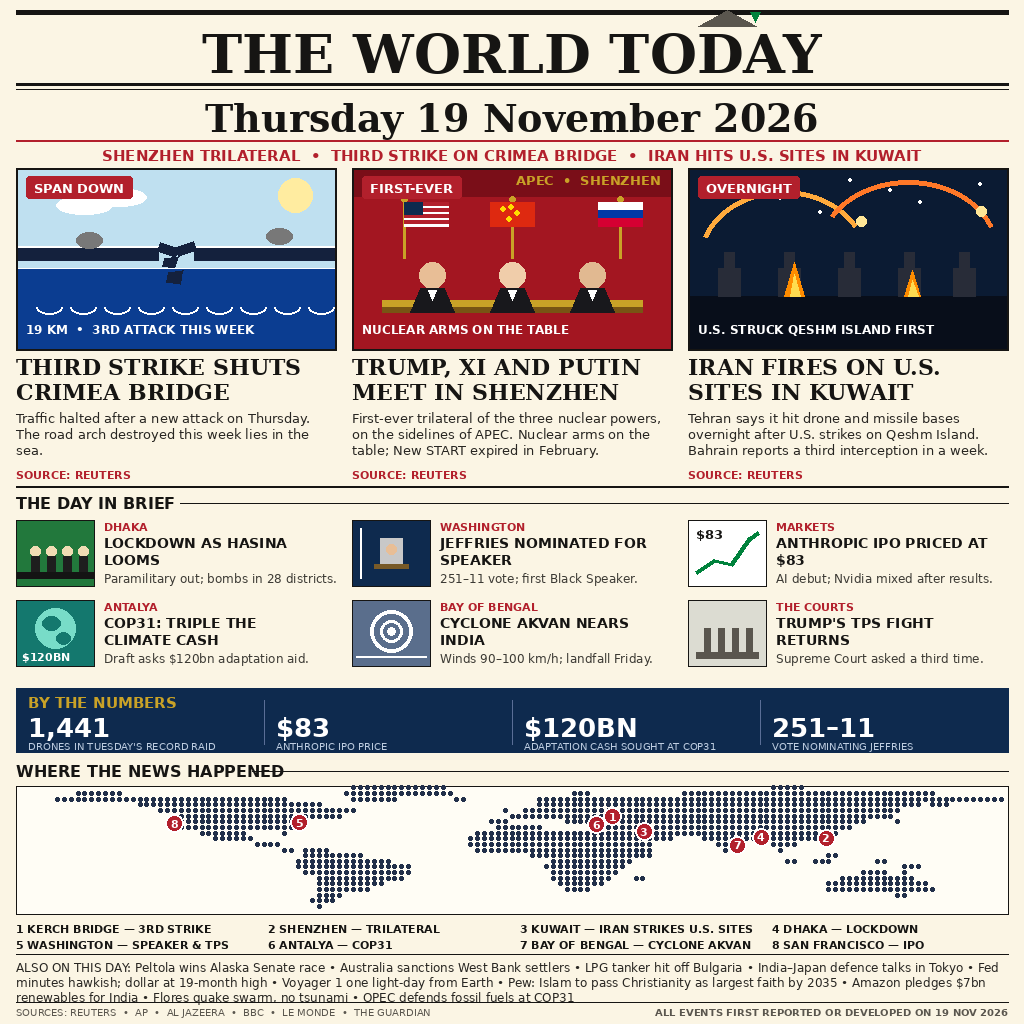
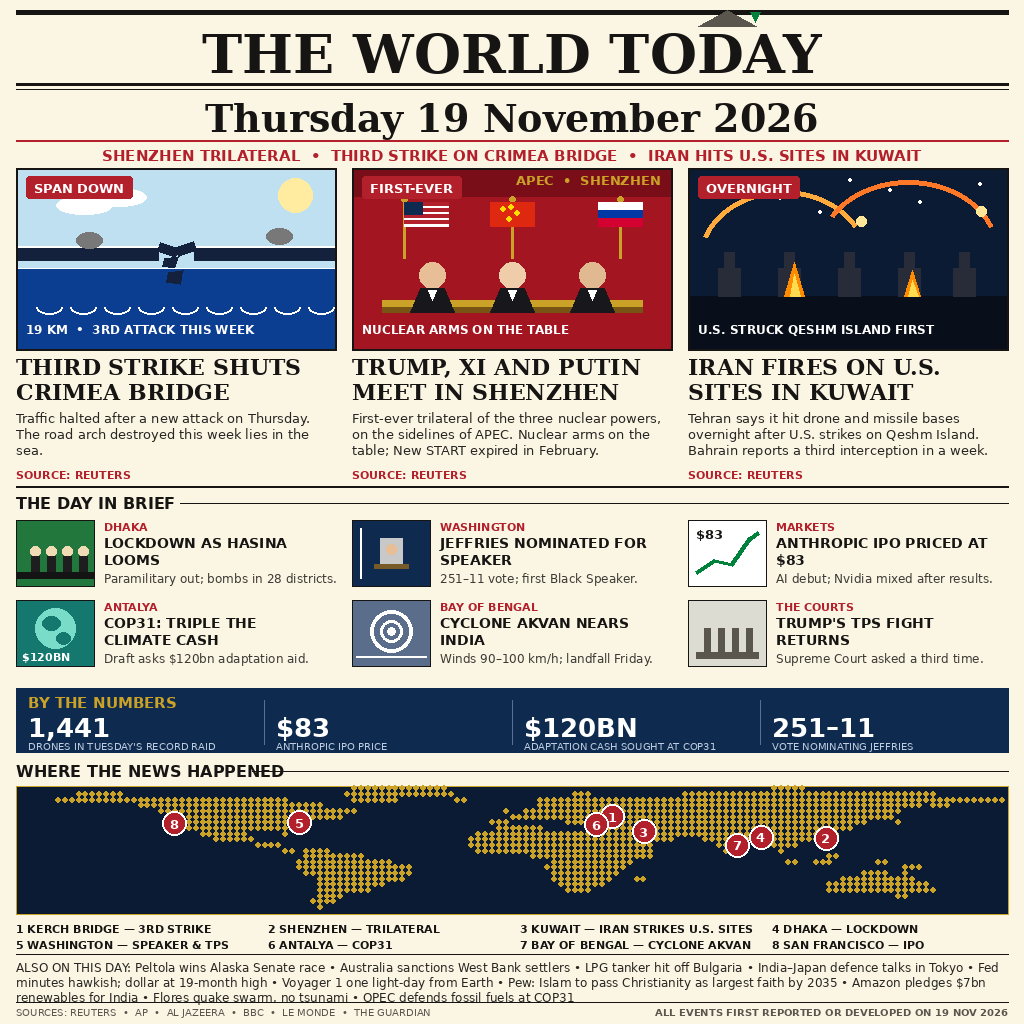
news-image-20261119 v2: redraw map panel dark (navy + gold dots, larger pins)

Changed region(s): [[0.0, 0.75, 1.0, 0.9062]]

diff --git a/main.ts b/main.ts
@@ -4,10 +4,17 @@
 // session, every pixel and every letter placed by code — no AI text, no
 // network) and ships beside this file as entry.png. This program's only job
 // is to place that exact image at /output/entry.png, deterministically.
+// v2 image: 132,536 bytes, sha256
+// 006421a6e148c7ae4cec1dce656b28dc7d62fa87ad9f62a60e94d9df20cfd7c3.
 //
 // Outside the grader's container, MAKEFUN_OUTPUT_DIR stands in for /output:
 //   mkdir -p out && MAKEFUN_OUTPUT_DIR=out node main.ts
 
+// v2 (19 Nov 2026, revision session): the map panel was redrawn dark —
+// navy fill, gold halftone dots, larger pins — after v1 graded 0.982910
+// (rank 100/2.799); every top-10 entry carries a big high-contrast map
+// while v1's pale thin map band barely read at thumbnail size. Same 8 pins,
+// same legend, same headlines: only the map panel changed.
 import { mkdirSync, readFileSync, writeFileSync } from 'node:fs';
 import { createHash } from 'node:crypto';
 import { dirname, join } from 'node:path';

diff --git a/README.md b/README.md
@@ -20,8 +20,9 @@ label and number is placed by code, no AI-generated text anywhere:
   nominated for Speaker, Anthropic IPO at $83, COP31's $120bn ask, Cyclone
   Akvan, Trump's TPS fight at the Supreme Court.
 - **By the Numbers** — 1,441 drones, $83, $120bn, 251–11.
-- **Where the News Happened** — a halftone dotted world map with eight
-  numbered pins and a legend.
+- **Where the News Happened** — a dark navy world map with gold halftone
+  dots, eight large numbered pins and a legend (v2: redrawn dark for
+  thumbnail contrast; v1's pale map band barely read at 300 px).
 - **Also on this day** — eleven more verified stories, with sources
   (Reuters, AP, Al Jazeera, BBC, Le Monde, The Guardian).
 
@@ -29,8 +30,8 @@ label and number is placed by code, no AI-generated text anywhere:
 
 `main.ts` (Node 22, standard library only) copies the shipped `entry.png`
 to `/output/entry.png`. The image is deterministic: two runs write identical
[1 lines of base64/hex data omitted]
-131,199 bytes).
[1 lines of base64/hex data omitted]
+132,536 bytes; v1 was 131,199 bytes, sha256 `096751bc…`).
 
 Run locally:
 
